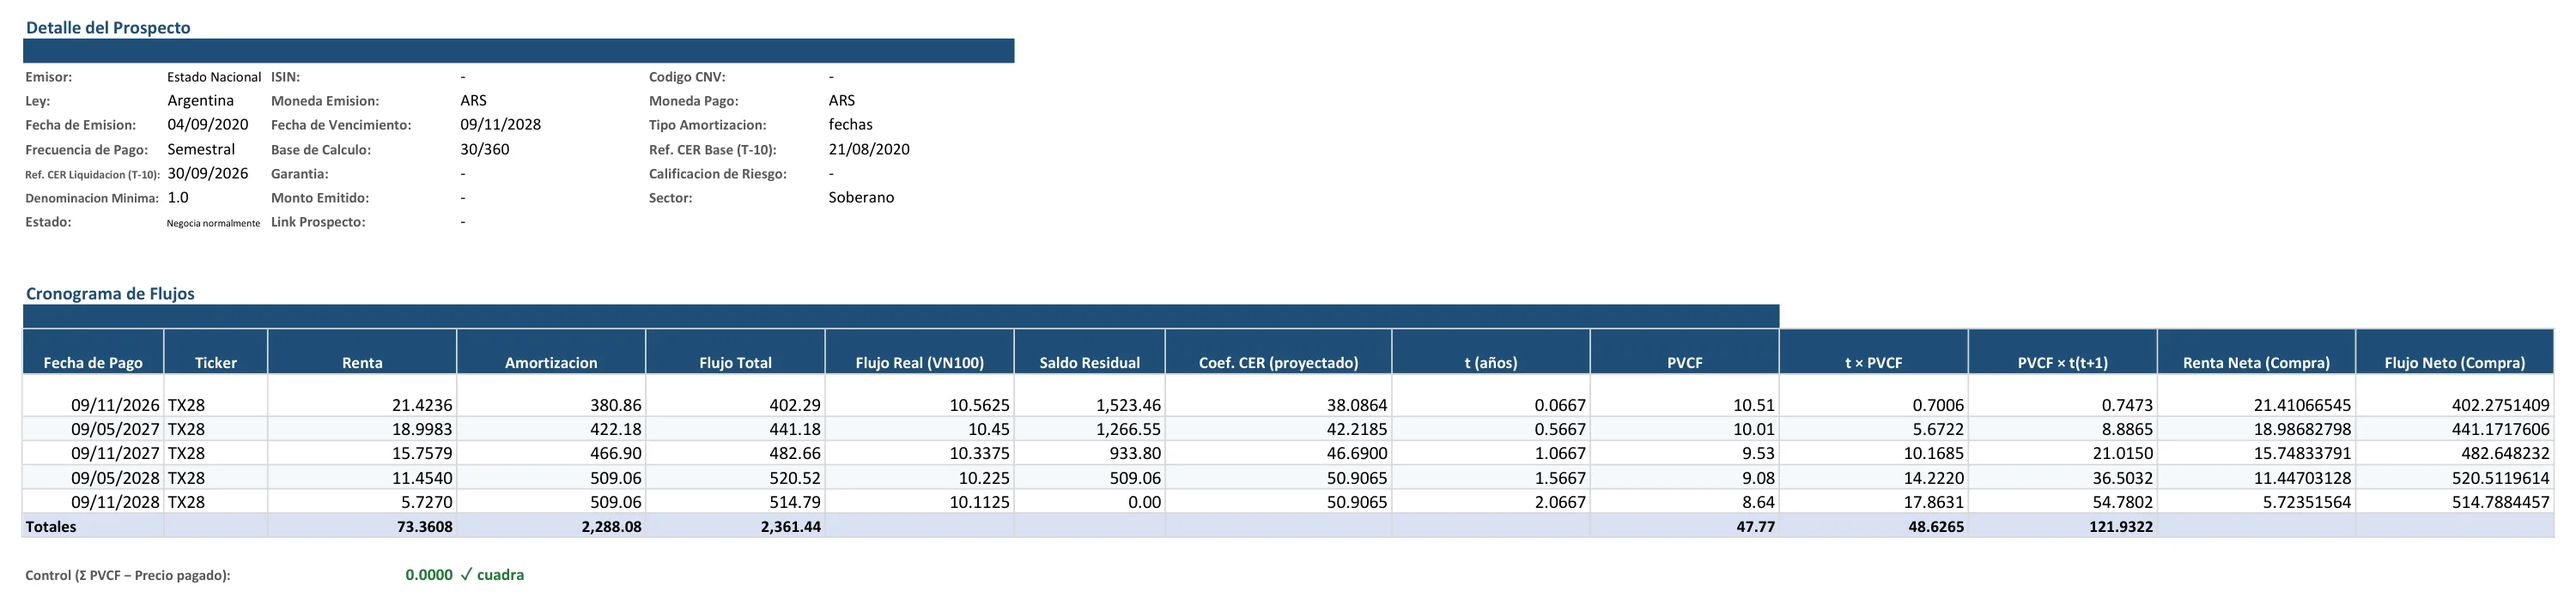
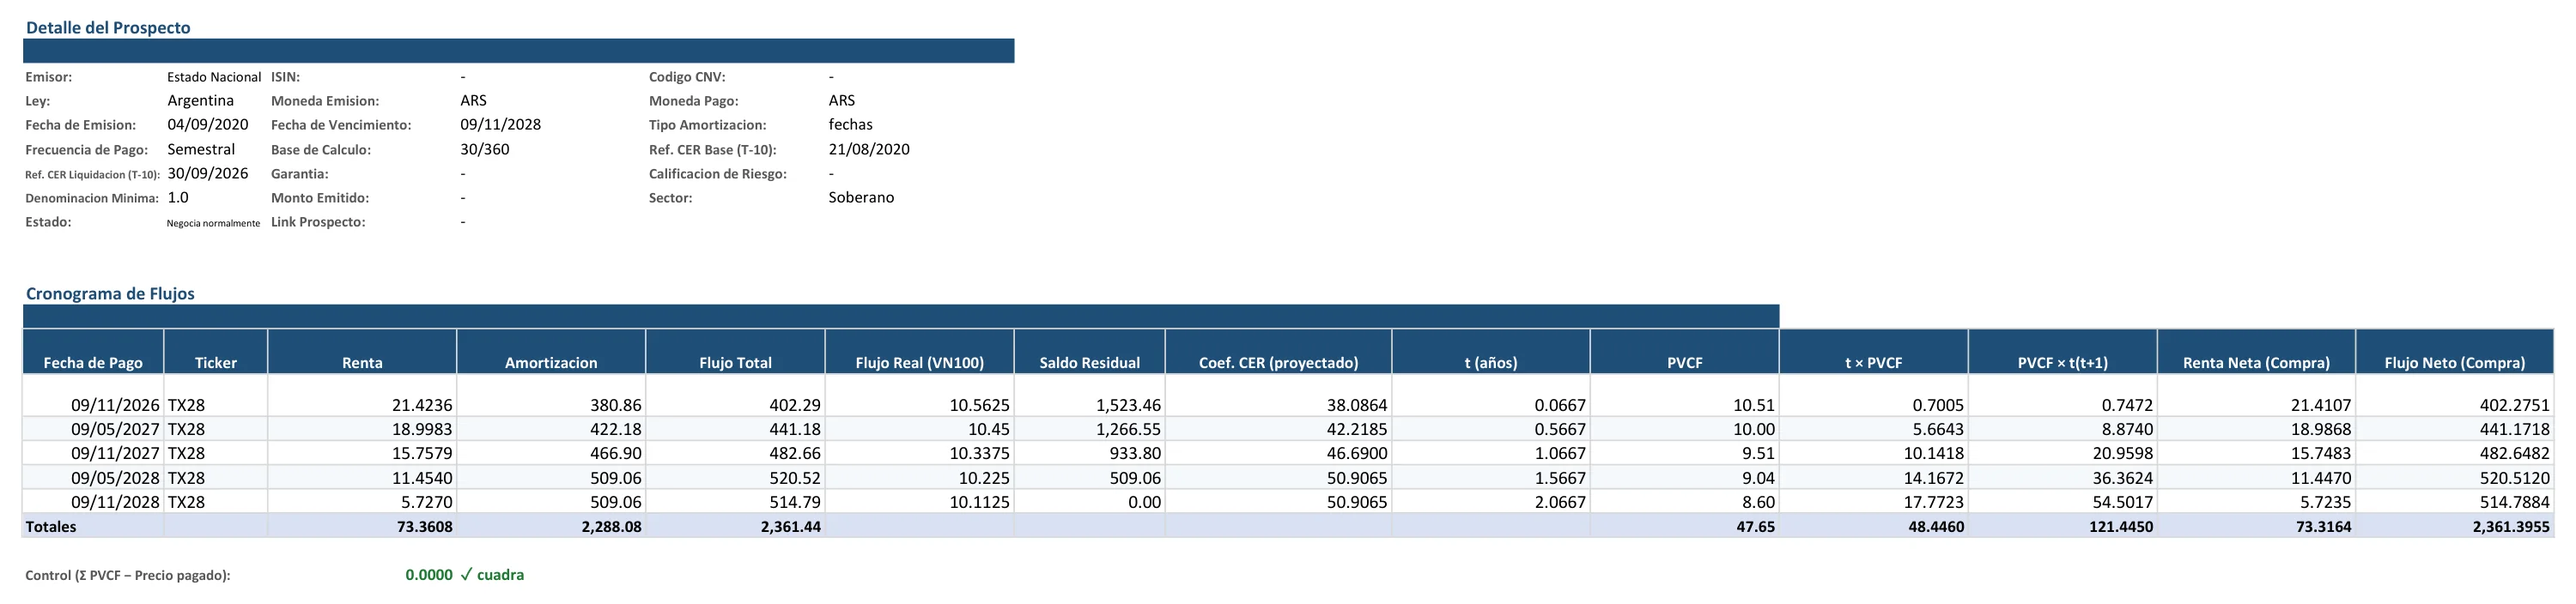
README: la ficha Excel de Hard Dollar de ejemplo es el GD46 y las fichas Excel se regeneran con el formato corregido

diff --git a/README.md b/README.md
@@ -832,17 +832,17 @@ ninguna de las dos vistas puede divergir de la otra sin que un test lo detecte.
 
 Cada ficha trae, en una sola hoja: métricas de sensibilidad, las tres vistas de precio, el detalle del prospecto, el cronograma con el valor presente de cada flujo, el análisis de sensibilidad con su gráfico y los comparables. El pie de cada hoja indica la fecha y hora de generación.
 
-**Hard Dollar (soberanos, provinciales y ONs)** — cronograma en USD, con el control que reconcilia la suma de los PVCF contra el precio pagado.
+**Hard Dollar (soberanos, provinciales y ONs)** — ejemplo: el **GD46** (soberano ley Nueva York, amortizable en 40 pagos). Cronograma en USD, con el control que reconcilia la suma de los PVCF contra el precio pagado.
 
-<p align="center"><img src="assets/screenshots/excel_ficha_hard_dollar_AL30_metricas_vistas.webp" alt="Ficha Excel AL30: métricas financieras y vistas de precio" width="100%"><br><sub>Ficha Excel AL30: métricas financieras y vistas de precio</sub></p>
+<p align="center"><img src="assets/screenshots/excel_ficha_hard_dollar_GD46_metricas_vistas.webp" alt="Ficha Excel GD46: métricas financieras y vistas de precio" width="100%"><br><sub>Ficha Excel GD46: métricas financieras y vistas de precio</sub></p>
 
-<p align="center"><img src="assets/screenshots/excel_ficha_hard_dollar_AL30_riesgo_contexto.webp" alt="Ficha Excel AL30: riesgo, ejecución y contexto de la TIR" width="100%"><br><sub>Ficha Excel AL30: riesgo, ejecución y contexto de la TIR</sub></p>
+<p align="center"><img src="assets/screenshots/excel_ficha_hard_dollar_GD46_riesgo_contexto.webp" alt="Ficha Excel GD46: riesgo, ejecución y contexto de la TIR" width="100%"><br><sub>Ficha Excel GD46: riesgo, ejecución y contexto de la TIR</sub></p>
 
-<p align="center"><img src="assets/screenshots/excel_ficha_hard_dollar_AL30_prospecto_cronograma.webp" alt="Ficha Excel AL30: prospecto y cronograma con PVCF" width="100%"><br><sub>Ficha Excel AL30: prospecto y cronograma con PVCF</sub></p>
+<p align="center"><img src="assets/screenshots/excel_ficha_hard_dollar_GD46_prospecto_cronograma.webp" alt="Ficha Excel GD46: prospecto y cronograma con PVCF" width="100%"><br><sub>Ficha Excel GD46: prospecto y cronograma con PVCF</sub></p>
 
-<p align="center"><img src="assets/screenshots/excel_ficha_hard_dollar_AL30_sensibilidad.webp" alt="Ficha Excel AL30: análisis de sensibilidad con gráfico" width="100%"><br><sub>Ficha Excel AL30: análisis de sensibilidad con gráfico</sub></p>
+<p align="center"><img src="assets/screenshots/excel_ficha_hard_dollar_GD46_sensibilidad.webp" alt="Ficha Excel GD46: análisis de sensibilidad con gráfico" width="100%"><br><sub>Ficha Excel GD46: análisis de sensibilidad con gráfico</sub></p>
 
-<p align="center"><img src="assets/screenshots/excel_ficha_hard_dollar_AL30_comparables_repago.webp" alt="Ficha Excel AL30: comparables y repago" width="100%"><br><sub>Ficha Excel AL30: comparables y repago</sub></p>
+<p align="center"><img src="assets/screenshots/excel_ficha_hard_dollar_GD46_comparables_repago.webp" alt="Ficha Excel GD46: comparables y repago" width="100%"><br><sub>Ficha Excel GD46: comparables y repago</sub></p>
 
 **CER** — cronograma en **pesos nominales**: cada flujo usa el coeficiente CER proyectado a su propia fecha de pago, así un cupón contractualmente parejo se ve crecer en pesos; la TIR y la sensibilidad siguen en términos reales.
 
